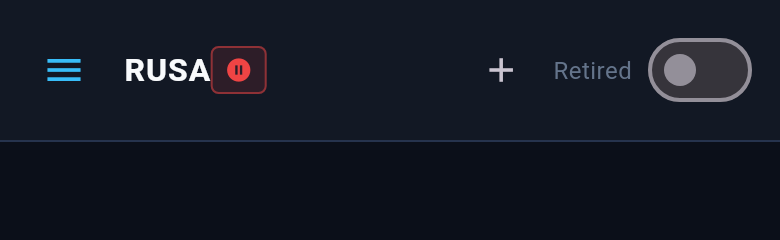
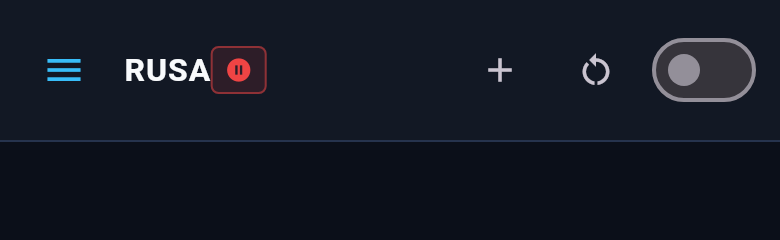
fix(dashboard): keep the phone header row inside narrow widths with recovery
The hold recovery control added one 48px action to the phone header's
actor-tree controls. At 360px with the halted and scheduler badges shown,
the Retired label no longer fit, the title collapsed and the row overflowed
by 28px (header_mark_test). Shed only the redundant Retired label whenever a
halted, scheduler or cached badge shares the row, as the cached case already
did; the switch, spawn and recovery controls keep their 48px targets.

Refresh the #918 phone header captures, which predated the recovery control.

diff --git a/packages/rusa/flutter_dashboard/test/header_mark_test.dart b/packages/rusa/flutter_dashboard/test/header_mark_test.dart
@@ -64,7 +64,8 @@ void main() {
   testWidgets(
     'renders the simplified antler/tree mark upper-left in desktop header with bounds and crop margins',
     (tester) async {
-      final api = FakeApi()..threadsResult = [makeThread('root', created: 't0')];
+      final api = FakeApi()
+        ..threadsResult = [makeThread('root', created: 't0')];
       final store = DashboardStore(api: api, stream: FakeStream());
       await tester.runAsync(store.init);
 
@@ -92,18 +93,26 @@ void main() {
       expect(headerRect.height, 71.0);
 
       // The 70px brand row containing the mark.
-      final brandRow = find.ancestor(of: mark, matching: find.byType(SizedBox)).first;
+      final brandRow = find
+          .ancestor(of: mark, matching: find.byType(SizedBox))
+          .first;
       final brandRowRect = tester.getRect(brandRow);
       expect(brandRowRect.height, 70.0);
 
       // Artwork box constraint is 22px high and preserves 193:241 aspect ratio.
       expect(svgRect.height, 22.0);
-      expect(svgRect.height / svgRect.width, moreOrLessEquals(193 / 241, epsilon: 0.01));
+      expect(
+        svgRect.height / svgRect.width,
+        moreOrLessEquals(193 / 241, epsilon: 0.01),
+      );
 
       // BrandMark footprint: vertical footprint is 32px (22 + 2*5 padding),
       // horizontal footprint is ~37.47px (22 * 241 / 193 + 2*5).
       expect(markRect.height, 32.0);
-      expect(markRect.width, moreOrLessEquals(22 * 241 / 193 + 10, epsilon: 0.1));
+      expect(
+        markRect.width,
+        moreOrLessEquals(22 * 241 / 193 + 10, epsilon: 0.1),
+      );
 
       // Visual breathing room / crop-compensation margins:
       // Artwork has 5px internal clearance from the BrandMark container on all sides.
@@ -125,7 +134,10 @@ void main() {
 
       // Spacing to RUSA wordmark (10px container gap + 5px internal padding = 15px artwork gap).
       expect(textRect.left - markRect.right, 10.0);
-      expect(textRect.left - svgRect.right, moreOrLessEquals(15.0, epsilon: 0.1));
+      expect(
+        textRect.left - svgRect.right,
+        moreOrLessEquals(15.0, epsilon: 0.1),
+      );
 
       // Upper-left: mark sits strictly left of the wordmark.
       expect(markRect.left, lessThan(textRect.left));
@@ -137,7 +149,8 @@ void main() {
   testWidgets(
     'renders the simplified antler/tree mark in phone drawer with proper bounds and spacing',
     (tester) async {
-      final api = FakeApi()..threadsResult = [makeThread('root', created: 't0')];
+      final api = FakeApi()
+        ..threadsResult = [makeThread('root', created: 't0')];
       final store = DashboardStore(api: api, stream: FakeStream());
       await tester.runAsync(store.init);
 
@@ -146,7 +159,10 @@ void main() {
 
       final drawer = find.byType(MobileNavDrawer);
       expect(drawer, findsOneWidget);
-      final mark = find.descendant(of: drawer, matching: find.byType(BrandMark));
+      final mark = find.descendant(
+        of: drawer,
+        matching: find.byType(BrandMark),
+      );
       expect(mark, findsOneWidget);
       final svg = find.descendant(of: mark, matching: find.byType(SvgPicture));
       expect(svg, findsOneWidget);
@@ -160,11 +176,17 @@ void main() {
 
       // Artwork box constraint is 22px high and preserves 193:241 aspect ratio.
       expect(svgRect.height, 22.0);
-      expect(svgRect.height / svgRect.width, moreOrLessEquals(193 / 241, epsilon: 0.01));
+      expect(
+        svgRect.height / svgRect.width,
+        moreOrLessEquals(193 / 241, epsilon: 0.01),
+      );
 
       // BrandMark footprint in drawer.
       expect(markRect.height, 32.0);
-      expect(markRect.width, moreOrLessEquals(22 * 241 / 193 + 10, epsilon: 0.1));
+      expect(
+        markRect.width,
+        moreOrLessEquals(22 * 241 / 193 + 10, epsilon: 0.1),
+      );
 
       // In the drawer, outer padding is (15, 15, 20, 11) to compensate for 5px mark padding,
       // landing the artwork at exactly 20px from drawer top and left edges.
@@ -175,10 +197,15 @@ void main() {
 
       // Spacing to RUSA wordmark (10px container gap, ~15px artwork clearance).
       expect(textRect.left - markRect.right, 10.0);
-      expect(textRect.left - svgRect.right, moreOrLessEquals(15.0, epsilon: 0.1));
+      expect(
+        textRect.left - svgRect.right,
+        moreOrLessEquals(15.0, epsilon: 0.1),
+      );
 
       // Mark sits cleanly above the divider.
-      final divider = find.descendant(of: drawer, matching: find.byType(Divider)).first;
+      final divider = find
+          .descendant(of: drawer, matching: find.byType(Divider))
+          .first;
       final dividerRect = tester.getRect(divider);
       expect(markRect.bottom, lessThan(dividerRect.top));
 
@@ -246,12 +273,18 @@ void main() {
         expect(find.byIcon(Icons.warning_amber_rounded), findsOneWidget);
         expect(find.text('Halted'), findsNothing);
         expect(find.text('Scheduler'), findsNothing);
+        // The status badges claim the Retired label's room; the switch and
+        // the hold recovery control stay reachable.
+        expect(find.text('Retired'), findsNothing);
+        expect(find.byType(Switch), findsOneWidget);
 
         for (final finder in [
           find.byIcon(Icons.menu),
           find.text('RUSA'),
           find.byIcon(Icons.pause_circle_filled),
           find.byIcon(Icons.warning_amber_rounded),
+          find.byTooltip('Clear availability holds'),
+          find.byType(Switch),
         ]) {
           final rect = tester.getRect(finder);
           expect(rect.left, greaterThanOrEqualTo(headerRect.left));

diff --git a/packages/rusa/flutter_dashboard/lib/widgets/header.dart b/packages/rusa/flutter_dashboard/lib/widgets/header.dart
@@ -1,5 +1,6 @@
 import 'package:flutter/material.dart';
 import 'package:intl/intl.dart';
+import 'package:rxdart/rxdart.dart';
 
 import '../breakpoints.dart';
 import '../models.dart';
@@ -392,15 +393,25 @@ class MeshHeader extends StatelessWidget {
                             detail == null) ...[
                           SizedBox(width: compact ? 6 : 10),
                           StreamBuilder<bool>(
-                            stream: store.actorsStale,
-                            initialData: store.actorsStale.valueOrNull ?? false,
-                            builder: (_, staleSnap) => ActorTreeControls(
+                            stream: Rx.combineLatest3(
+                              store.halted,
+                              store.schedulerWarning,
+                              store.actorsStale,
+                              _phoneStatusBadgeShown,
+                            ),
+                            initialData: _phoneStatusBadgeShown(
+                              store.halted.valueOrNull ?? false,
+                              store.schedulerWarning.valueOrNull,
+                              store.actorsStale.valueOrNull ?? false,
+                            ),
+                            builder: (_, badgeSnap) => ActorTreeControls(
                               store: store,
-                              // The cached badge takes the same narrow phone
-                              // row. Keep recovery reachable while shedding
-                              // only the redundant Retired label in that state.
+                              // Halted, scheduler and cached badges take the
+                              // same narrow phone row. Keep recovery reachable
+                              // while shedding only the redundant Retired label
+                              // whenever one of them is shown.
                               compact:
-                                  compactControls || (staleSnap.data ?? false),
+                                  compactControls || (badgeSnap.data ?? false),
                             ),
                           ),
                         ],
@@ -968,7 +979,9 @@ class _ProviderQuotaRing extends StatelessWidget {
       }
     }
     final scrapedAt =
-        weeklyWindow?.scrapedAt ?? sessionWindow?.scrapedAt ?? provider.scrapedAt;
+        weeklyWindow?.scrapedAt ??
+        sessionWindow?.scrapedAt ??
+        provider.scrapedAt;
     final effectiveThrottle =
         throttle ?? (label == null ? provider.throttle : null);
     final tooltipWidget = QuotaTooltip(
@@ -1182,6 +1195,14 @@ String _haltExpiryFormat(DateTime until, DateTime now) {
       ? 'today ${DateFormat('h:mm a').format(until)}'
       : DateFormat('EEE MMM d, h:mm a').format(until);
 }
+
+/// Whether the phone header row is showing a halted, scheduler or cached
+/// badge, mirroring the conditions those badges render under.
+bool _phoneStatusBadgeShown(
+  bool halted,
+  List<String>? schedulerIssues,
+  bool actorsStale,
+) => halted || (schedulerIssues?.isNotEmpty ?? false) || actorsStale;
 
 /// The engaged-emergency-brake indicator: a solid red pause icon and a bold
 /// "Halted" label — the only status the header surfaces (issue #412), shown
